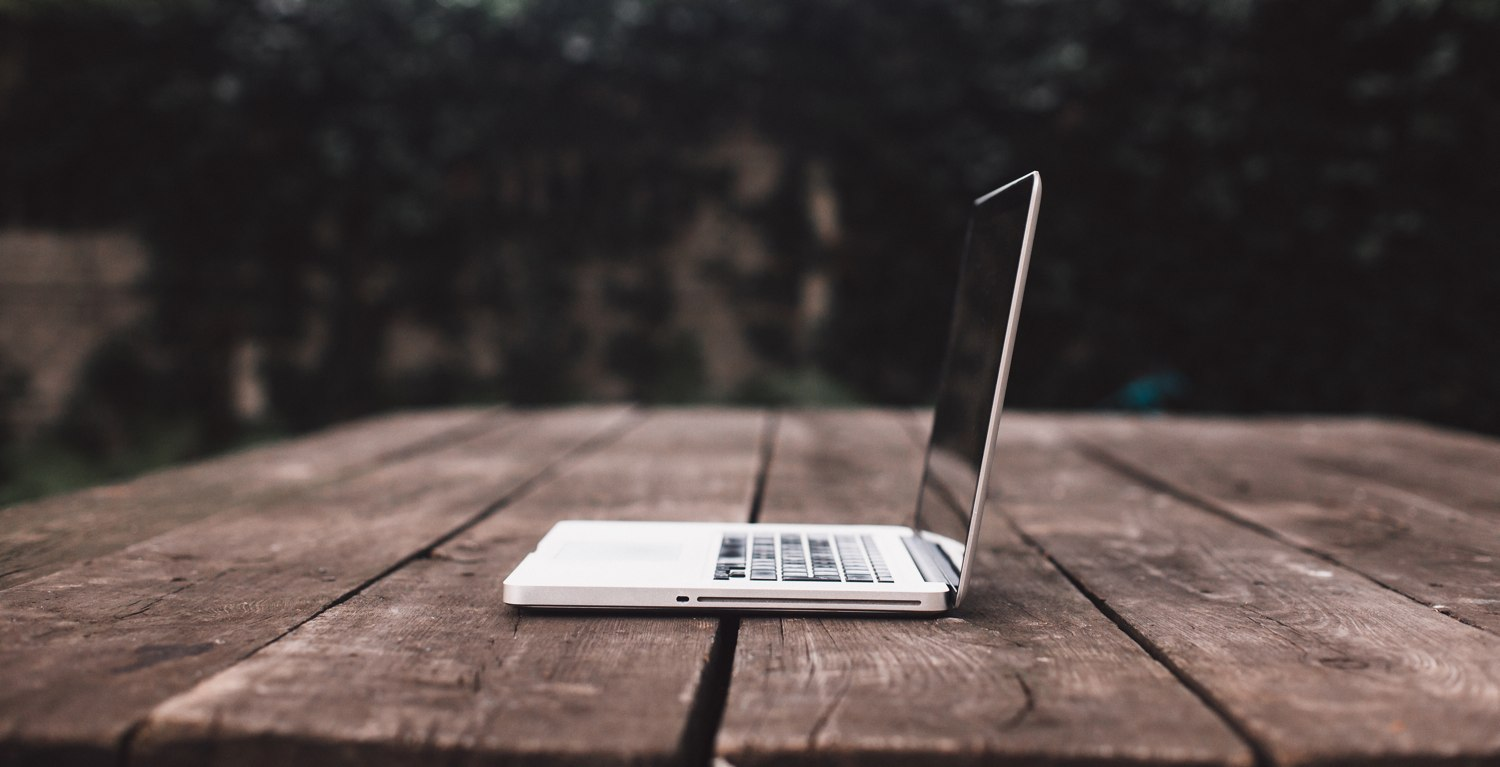
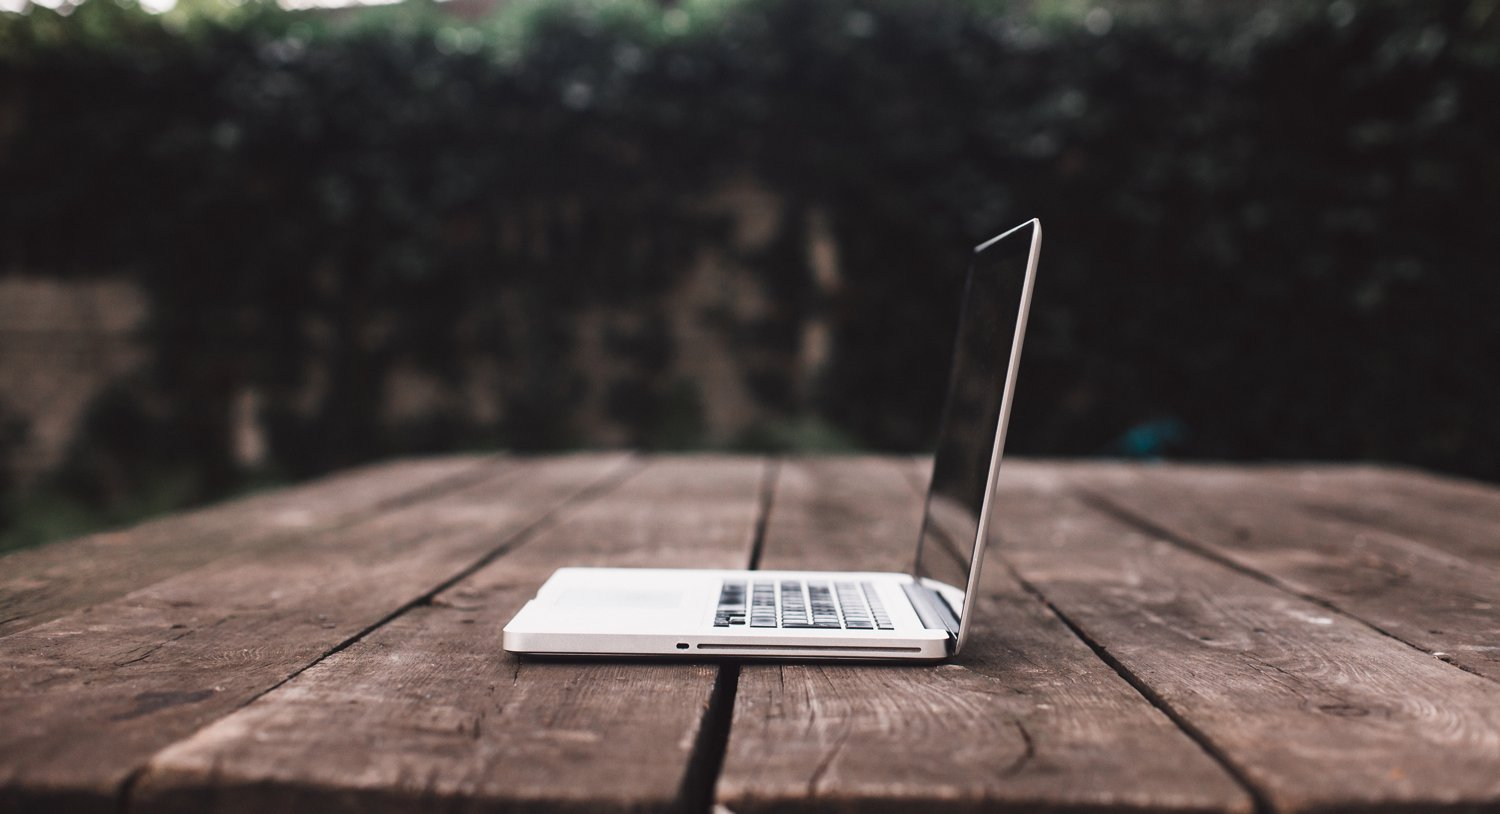
Remove unused homepage cover images

diff --git a/source/_assets/stylesheets/tomdiggle/_homepage.scss b/source/_assets/stylesheets/tomdiggle/_homepage.scss
@@ -1,6 +1,6 @@
 .home {
     #header {
-        background-image: url('/assets/images/home-cover-03.jpg');
+        background-image: url('/assets/images/home-cover-01.jpg');
         background-position: center center;
         background-repeat: no-repeat;
         background-size: cover;
